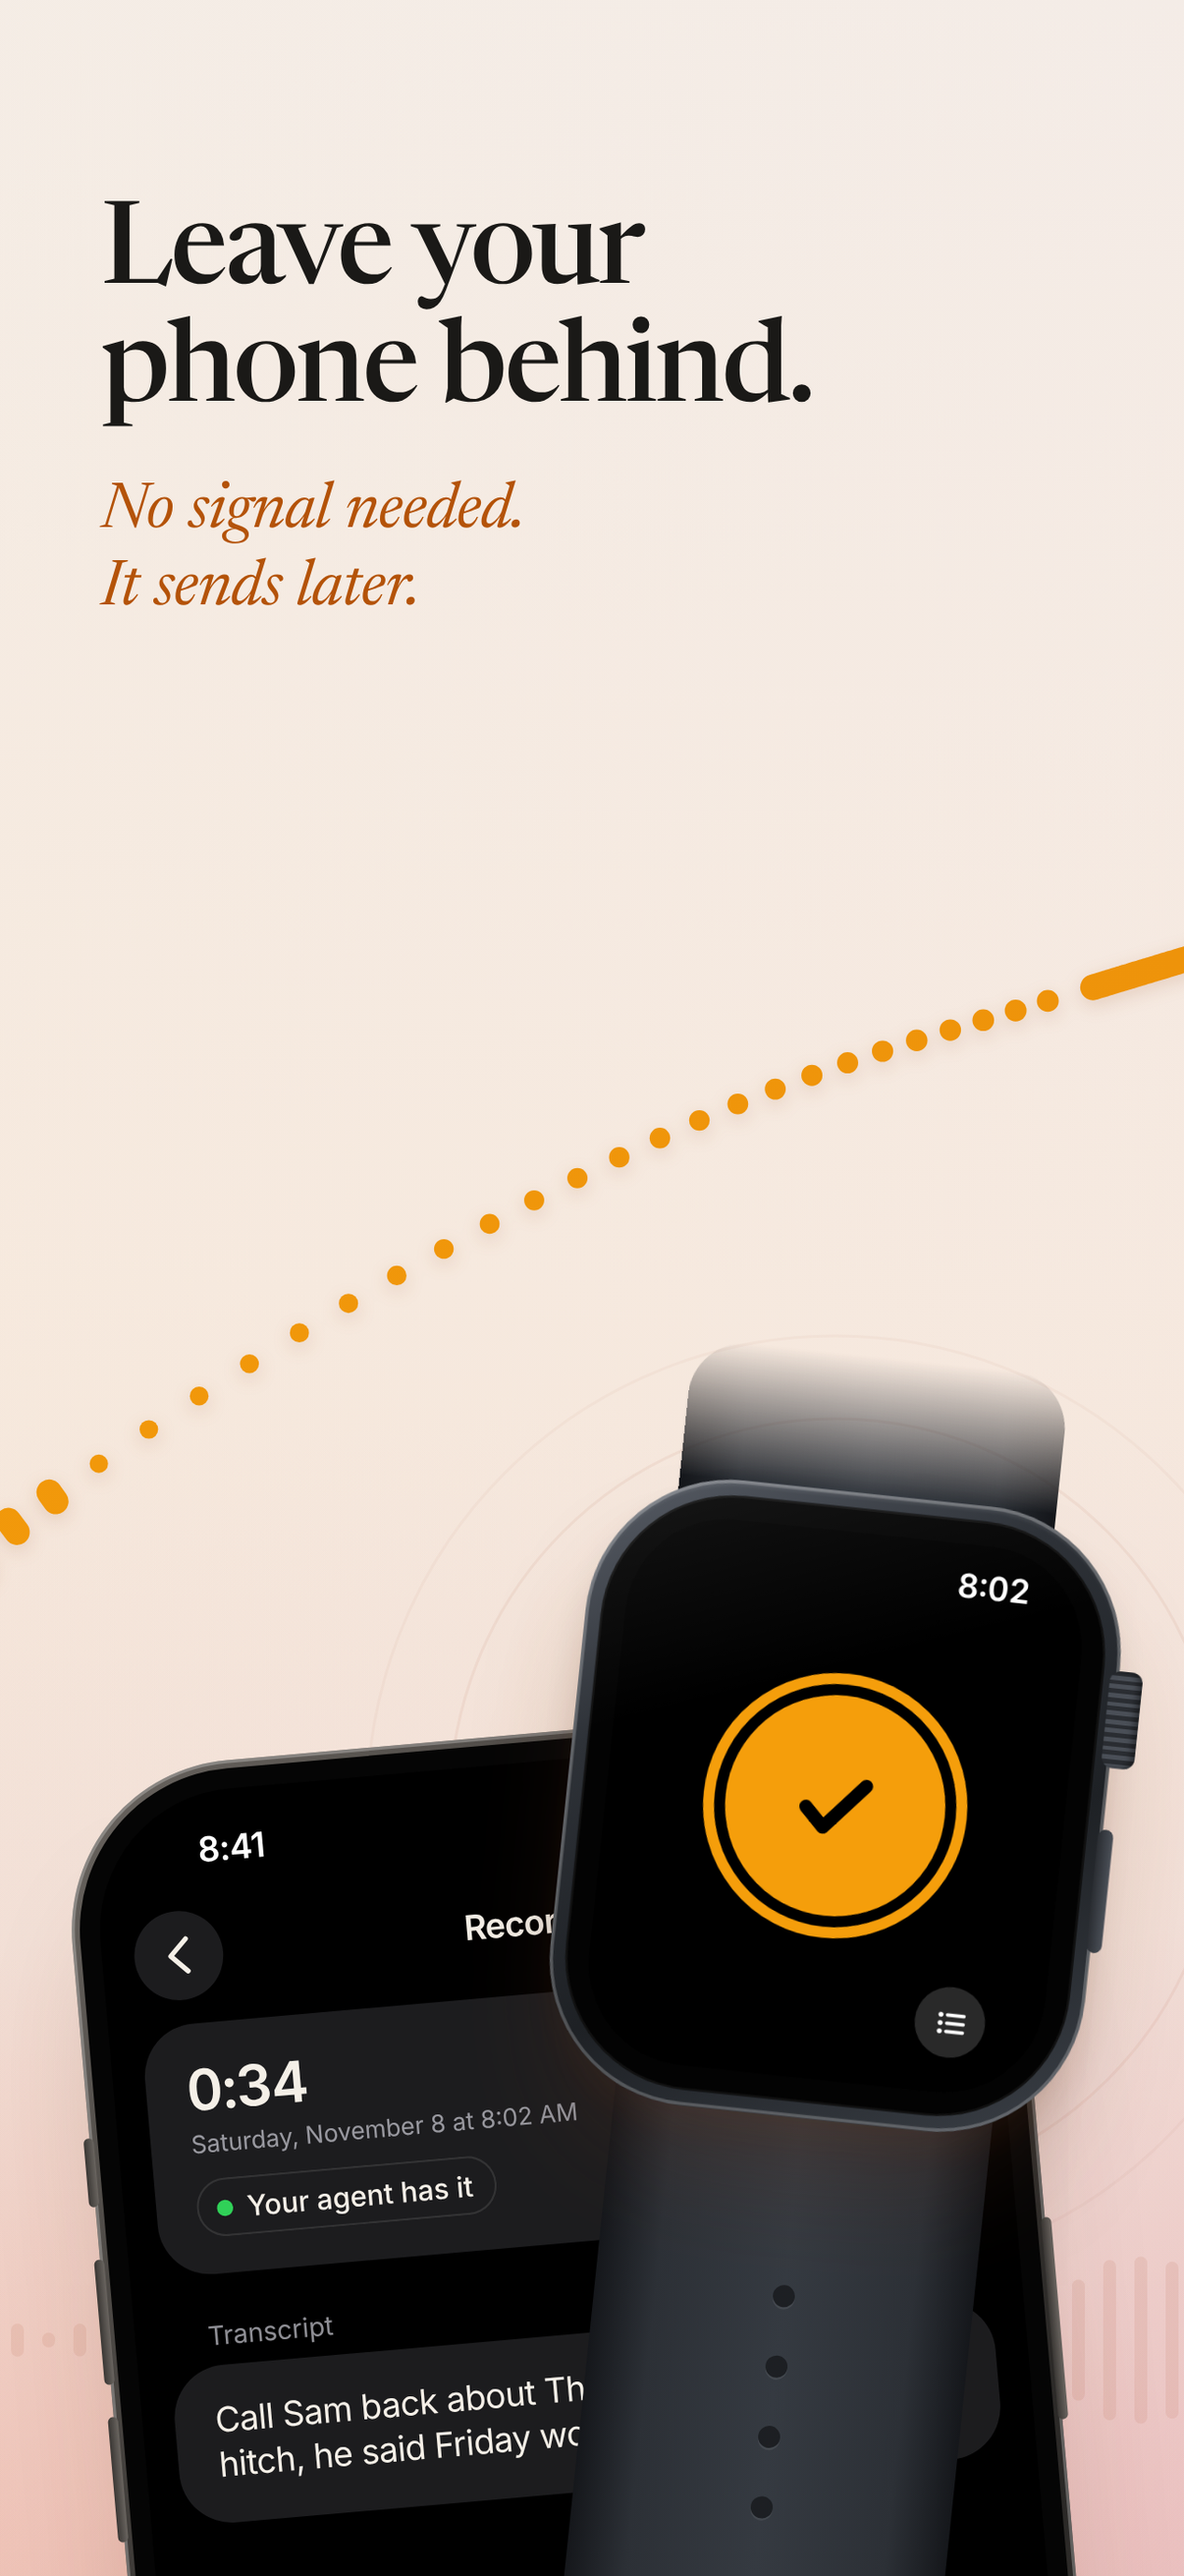
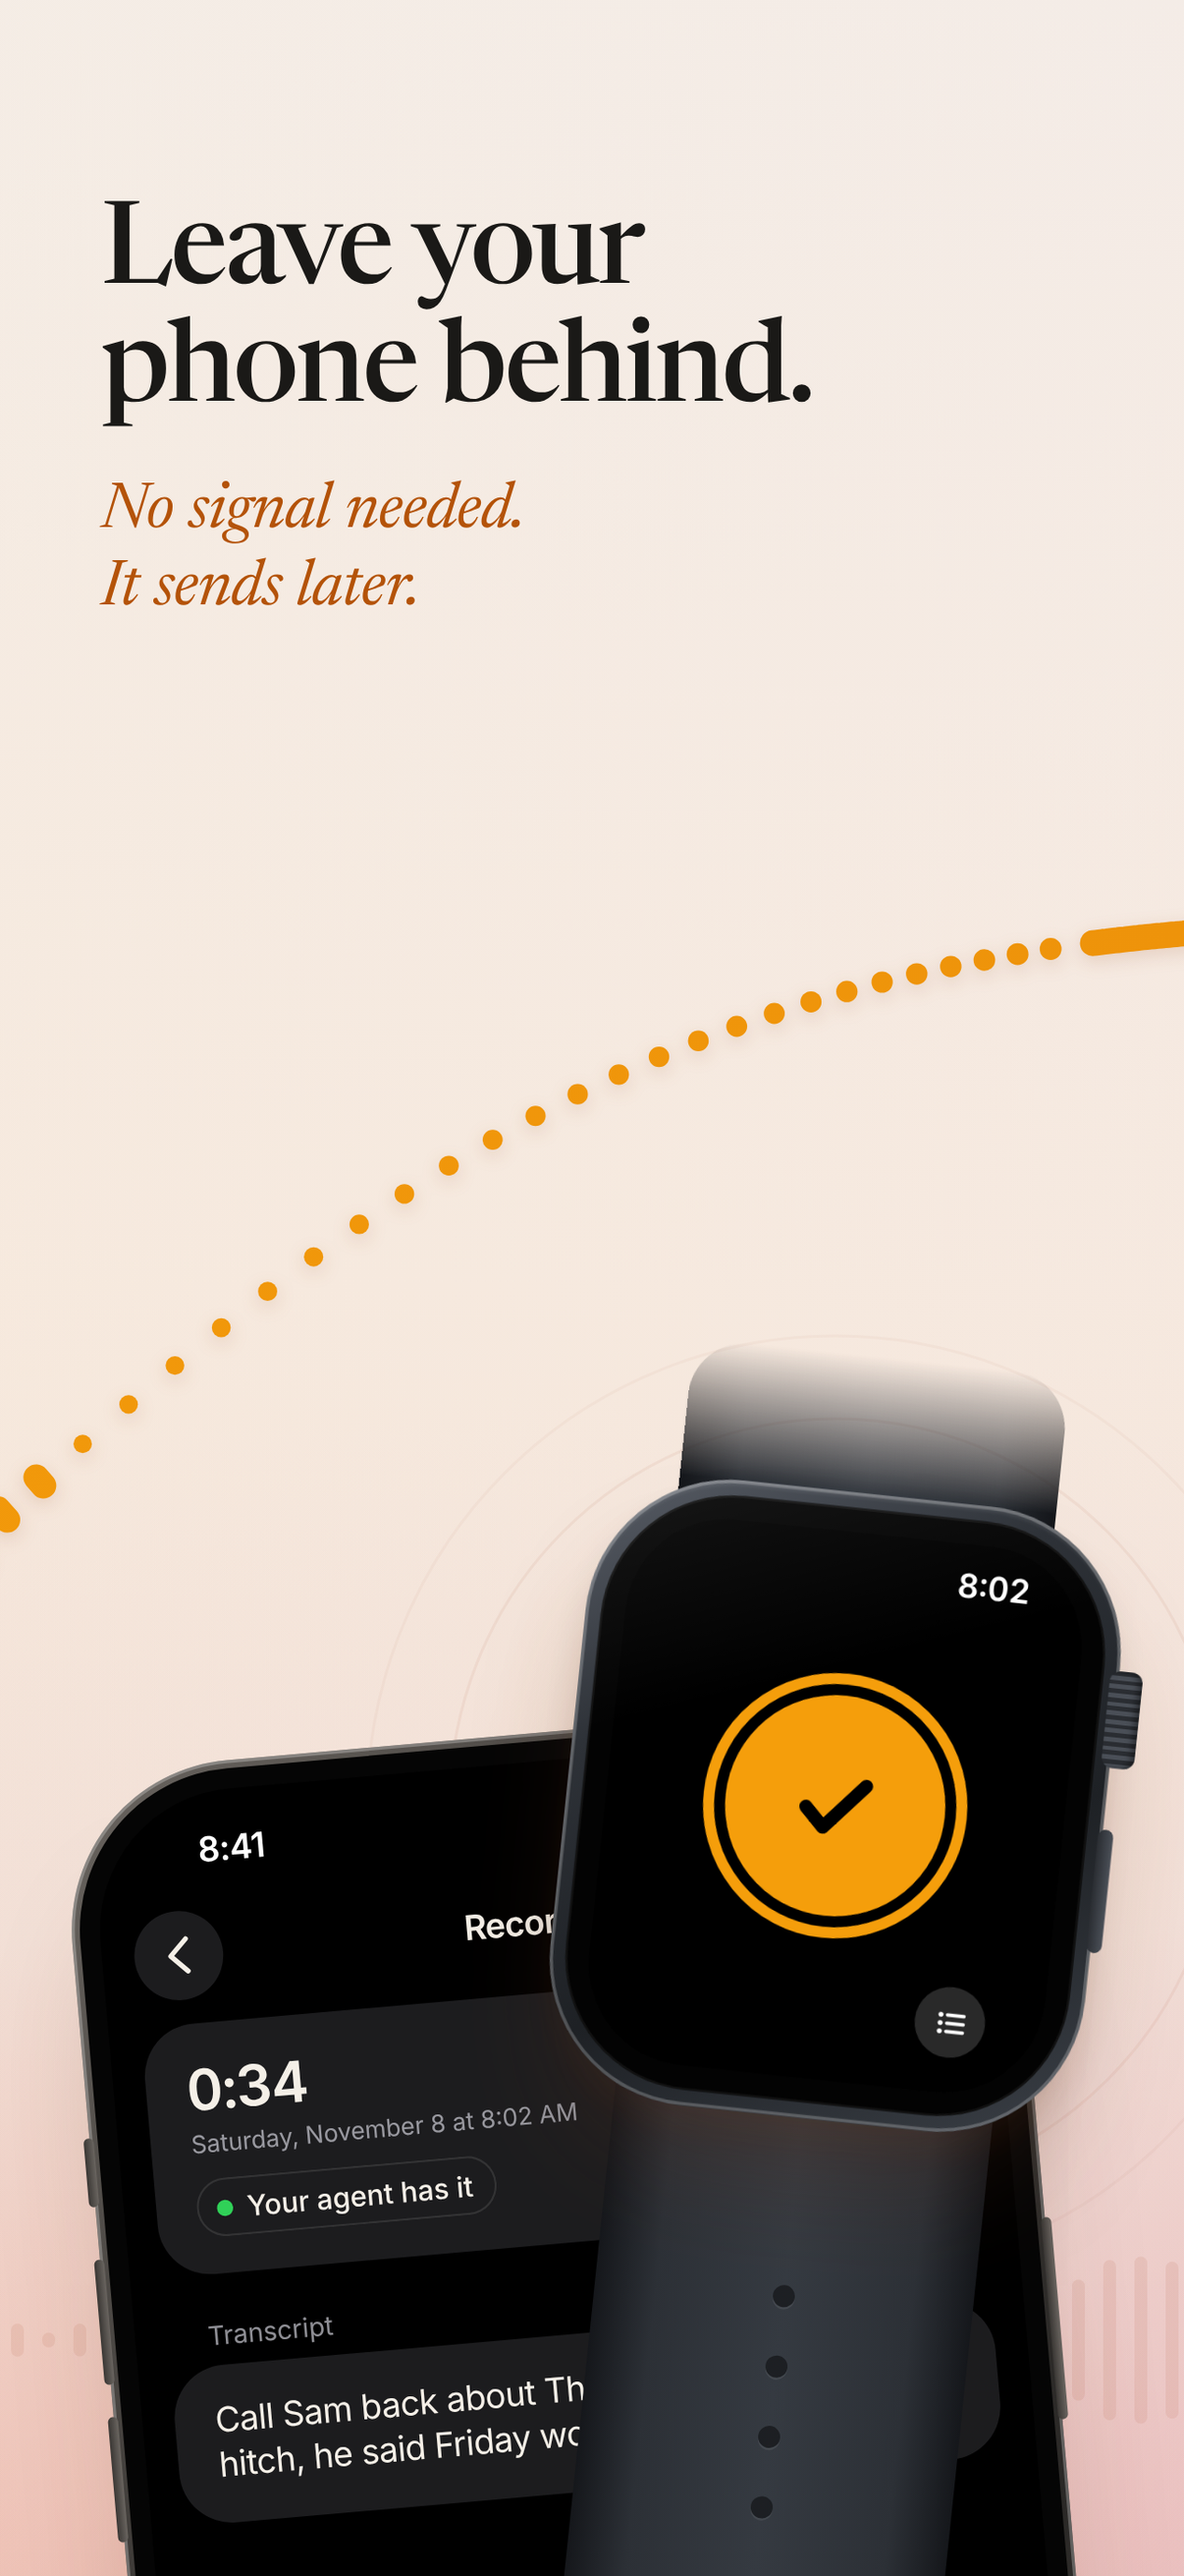
App Store screenshots: frames 1-3 drawn as one continuous curve, fainter lock
Claude-Session: https://claude.ai/code/session_01TreUG6Gw8YWAnJM4u7RM4H

diff --git a/images/appstore/2026-sunset/source/one-line.html b/images/appstore/2026-sunset/source/one-line.html
@@ -680,11 +680,12 @@ if (params.has('ipad')) NODES_T[10] = [4640, MSGY, 0, 420, 560];
 // Frames 1-2 and 4-5 are a centripetal Catmull-Rom spline through loose points. Frame 3's S is drawn by
 // curvature instead: each turn is a raised-cosine curvature bump (zero at both ends), so the curvature never
 // jumps and the S reads as one pen stroke. The whole line is then resampled and Gaussian-smoothed.
-const FLOW_A = [[1112, 1806], [1380, 1600], [1720, 1385], [2110, 1190], [2520, 1060]];   // F1-F2: rising, dotted until it reconnects
+const FLOW_START = [1112, 1806, -42];   // F1: leaves the watch rising; dotted until it reconnects in F2
 const FLOW_C = [[3740, 1830], [3990, MSGY + 120], [4300, MSGY + 30], [4700, MSGY + 20],      // F4: out by the crown, up into the message
   [5060, MSGY + 90], [5345, 1622]];                                                         // F5: easing down into the relay node
-// F3: [kind, turn in degrees or length, arc length]
-const FLOW_S = [['c', 0, 520], ['s', 260], ['c', 158, 760], ['s', 380], ['c', -166, 1000], ['s', 200]];
+// F1-F3 as one stroke: [kind, turn in degrees or length, arc length]. One long, gentle bend levels the rise
+// across F1-F3, flows straight into the hairpin, then one wide turn the other way curls into the watch.
+const FLOW_S = [['c', 42, 2350], ['c', 158, 820], ['s', 380], ['c', -166, 1000], ['s', 200]];
 function crPoints(P, alpha = 0.5) {
   const Q = [[2 * P[0][0] - P[1][0], 2 * P[0][1] - P[1][1]], ...P, [2 * P[P.length - 1][0] - P[P.length - 2][0], 2 * P[P.length - 1][1] - P[P.length - 2][1]]];
   const out = [P[0]];
@@ -712,11 +713,10 @@ function turtle(x, y, th, segs) {
   return out;
 }
 function flowPath() {
-  const A = crPoints(FLOW_A), [xa, ya] = A[A.length - 1], [xp, yp] = A[A.length - 2];
-  const S = FLOW_S.map(q => q.slice()); const th0 = Math.atan2(ya - yp, xa - xp); S[0][1] = -th0 * 180 / Math.PI;   // first bump levels the line
-  const B = turtle(xa, ya, th0, S);
-  const C = crPoints([B[B.length - 1], ...FLOW_C]);
-  let P = [...A, ...B, ...C.slice(1)];
+  const [xa, ya, ha] = FLOW_START;
+  const B = [[xa, ya], ...turtle(xa, ya, ha * Math.PI / 180, FLOW_S)];
+  const C = crPoints([B[B.length - 1], ...FLOW_C]);   // joins under the F3 watch
+  let P = [...B, ...C.slice(1)];
   // resample every 4 px, then a Gaussian blur along the line (endpoints pinned)
   const R = [P[0]]; let acc = 0;
   for (let i = 1; i < P.length; i++) { const dd = Math.hypot(P[i][0] - P[i - 1][0], P[i][1] - P[i - 1][1]); acc += dd;
@@ -794,9 +794,9 @@ const sSolid = sAtX(2480), sNodeF = L;
   const thin = nodesToPath([[pN.x + 24, pN.y + 1.5, 4, 0, 50], [5470, 1628, 0, 50, 80], [5720, 1628, 0, 80, 0]]);
   el('path', { d: thin, fill: 'none', 'stroke-width': 8, 'stroke-linecap': 'round' });
 }
-say('wA', sNear(2700, 1000), sNear(3420, 984), 'so um, the garage thing… wait, oat milk…');
-const sB0f = sNear(3453, 1325, sNear(3581, 1232));
-say('wB', sB0f, sNear(2861, 1568, sB0f), 'and call Sam back about Thursday…');
+say('wA', sNear(2650, 1008), sNear(3380, 1000), 'so um, the garage thing… wait, oat milk…');
+const sB0f = sNear(3341, 1391, sNear(3539, 1262));
+say('wB', sB0f, sNear(2760, 1640, sB0f), 'and call Sam back about Thursday…');
 } else {
 // 1) F1: evenly spaced voice bars easing down into the line
 const BARS1 = 7;
@@ -874,7 +874,7 @@ function fitWords() {
   if (WASH) {
     // frame 5: a large, quiet lock behind the phone
     const lx = 5470, ly = 1330, k = 0.78;
-    const lg = mk('g', { opacity: .9, transform: `translate(${lx} ${ly}) scale(${k}) translate(${-lx} ${-ly})` });
+    const lg = mk('g', { opacity: .42, transform: `translate(${lx} ${ly}) scale(${k}) translate(${-lx} ${-ly})` });
     const ld = mk('defs', {}); ld.innerHTML = '<linearGradient id="lockg" x1="0" y1="0" x2="0" y2="1"><stop offset="0" stop-color="#F1B48A" stop-opacity=".55"/><stop offset="1" stop-color="#D98CA6" stop-opacity=".40"/></linearGradient>';
     const sh = document.createElementNS(ns, 'path');
     for (const [a, v] of Object.entries({ d: `M${lx - 230},${ly - 40} V${ly - 300} A230,230 0 0 1 ${lx + 230},${ly - 300} V${ly - 40}`, fill: 'none', stroke: 'url(#lockg)', 'stroke-width': 96, 'stroke-linecap': 'round' })) sh.setAttribute(a, v);
